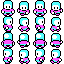
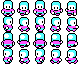
Ice blocks

diff --git a/src/player.c b/src/player.c
@@ -6,6 +6,7 @@
 
 
 static const i16 MOVE_TIME = 20;
+static const i16 INTERACTION_TIME = 20;
 
 
 Player create_player(i16 x, i16 y, Stage* s) {
@@ -18,6 +19,7 @@ Player create_player(i16 x, i16 y, Stage* s) {
 
     pl.moveTimer = 0;
     pl.moving = false;
+    pl.interacting = false;
     pl.dir = vec2(0, 0);
 
     pl.spr = create_sprite(4, 16);
@@ -37,8 +39,9 @@ static void pl_control(Player* pl, Stage* s, i16 step) {
     i16 dx = 0;
     i16 dy = 0;
     State k;
+    u8 actionType;
 
-    if (pl->moving) return;
+    if (pl->moving || pl->interacting) return;
 
     if ((k = keyb_get_ext_key(KEY_RIGHT)) & STATE_DOWN_OR_PRESSED) {
 
@@ -61,10 +64,15 @@ static void pl_control(Player* pl, Stage* s, i16 step) {
         dy = -1;
     }
 
-    if ((dx != 0 || dy != 0) &&
-        !stage_movement_collision(s, k,
-            pl->pos.x + dx, pl->pos.y + dy, 
-            dx, dy, MOVE_TIME)) {
+    actionType = 0;
+    if (dx != 0 || dy != 0) {
+
+        actionType = stage_movement_collision(s, k,
+                pl->pos.x + dx, pl->pos.y + dy, 
+                dx, dy, MOVE_TIME);
+    }
+
+    if (actionType == 1) {
 
         pl->target.x = pl->pos.x + dx;
         pl->target.y = pl->pos.y + dy;
@@ -74,6 +82,12 @@ static void pl_control(Player* pl, Stage* s, i16 step) {
 
         pl->moveTimer = MOVE_TIME;
         pl->moving = true;
+    }
+    else if (actionType == 2) {
+
+        pl->moveTimer = INTERACTION_TIME;
+        pl->interacting = true;
+        pl->moving = false;
     }
 }
 
@@ -102,6 +116,24 @@ static bool pl_check_camera(Player* pl, Stage* s) {
 }
 
 
+static bool pl_animate_interaction(Player* pl, i16 step) {
+
+    if (pl->interacting) {
+
+        if ((pl->moveTimer -= step) <= 0) {
+
+            pl->interacting = false;
+            spr_set_frame(&pl->spr, 0, pl->spr.row);
+        }
+        else {
+
+            spr_set_frame(&pl->spr, 4, pl->spr.row);
+        }
+    }
+    return pl->interacting;
+}
+
+
 static bool pl_move(Player* pl, Stage* s, i16 step) {
 
     i16 moveStep = MOVE_TIME / 4;
@@ -109,7 +141,7 @@ static bool pl_move(Player* pl, Stage* s, i16 step) {
     i16 oldTime;
     bool ret = false;
     
-    if (!pl->moving) return false;
+    if (!pl->moving || pl->interacting) return false;
 
     oldTime = pl->moveTimer;
     if ((pl->moveTimer -= step) <= 0) {
@@ -138,6 +170,12 @@ static void pl_animate(Player* pl, i16 step) {
 
     const i16 ANIM_SPEED = 8;
 
+    if (pl->interacting) {
+
+        pl_animate_interaction(pl, step);
+        return;
+    }
+
     if (pl->moving) {
 
         spr_animate(&pl->spr, pl->spr.row, 0, 3, ANIM_SPEED, step);
@@ -156,10 +194,9 @@ bool pl_update(Player* pl, Stage* s, i16 step) {
 
     pl_control(pl, s, step);
     pl_compute_render_pos(pl, s);
-
     pl_animate(pl, step);
     ret = pl_move(pl, s, step);
-
+    
     return ret;
 }
 

diff --git a/src/stage.c b/src/stage.c
@@ -12,7 +12,7 @@
 static bool is_solid(u8 v) {
 
     static const bool TABLE[] = {
-        0, 1, 1, 1, 0, 1, 1, 1, 1,
+        0, 1, 1, 1, 0, 1, 1, 1, 1, 1,
 
         // "Overflow" values, remove in the
         // release version
@@ -346,6 +346,8 @@ void stage_draw(Stage* s, Bitmap* bmpTileset) {
     i16 index;
     u8 tid;
 
+    // TODO: Look-up table? Most of the tiles
+    // are normal
     for (y = 0; y < s->roomHeight; ++ y) {
 
         for (x = 0; x < s->roomWidth; ++ x) {
@@ -394,6 +396,13 @@ void stage_draw(Stage* s, Bitmap* bmpTileset) {
 
                 sx = 20;
                 sy = 0;
+                break;
+
+            // Ice block
+            case 9:
+
+                sx = 20;
+                sy = 16;
                 break;
 
             default:
@@ -509,7 +518,14 @@ static void cut_flower(Stage* s, i16 x, i16 y) {
 }
 
 
-bool stage_movement_collision(Stage* s, 
+static void break_ice_block(Stage* s, i16 x, i16 y) {
+
+    set_tile(s, s->roomTilesStatic, x, y, 0);
+    set_tile(s, s->roomTilesDynamic, x, y, 2);
+}
+
+
+u8 stage_movement_collision(Stage* s, 
     State actionType, i16 x, i16 y, 
     i16 dx, i16 dy, i16 objectMoveTime) {
 
@@ -532,9 +548,9 @@ bool stage_movement_collision(Stage* s,
             s->rockAnim.startTime = objectMoveTime;
             s->rockAnim.timer = objectMoveTime;
 
-            return false;
+            return 1;
         }
-        return true;
+        return 0;
 
     // Bolt
     case 6:
@@ -542,8 +558,9 @@ bool stage_movement_collision(Stage* s,
         if (actionType == STATE_PRESSED) {
 
             swap_walls(s, x, y);
+            return 2;
         }
-        return true;
+        return 0;
 
     // Flower
     case 8:
@@ -551,14 +568,25 @@ bool stage_movement_collision(Stage* s,
         if (actionType == STATE_PRESSED) {
 
             cut_flower(s, x, y);
+            return 2;
         }
-        return true;
+        return 0;
+
+    // Ice block
+    case 9:
+
+        if (actionType == STATE_PRESSED) {
+
+            break_ice_block(s, x, y);
+            return 2;
+        }
+        return 0;
 
     default:
         break;
     }
 
-    return is_solid(id);
+    return (u8)!is_solid(id);
 }
 
 

diff --git a/src/stage.h b/src/stage.h
@@ -55,7 +55,7 @@ void stage_draw_objects(Stage* s, Bitmap* bmpObjects);
 
 void stage_mark_tile_for_redraw(Stage* s, i16 x, i16 y);
 
-bool stage_movement_collision(Stage* s, State actionType,
+u8 stage_movement_collision(Stage* s, State actionType,
     i16 x, i16 y, i16 dx, i16 dy, i16 objectMoveTime);
 bool stage_check_camera_transition(Stage* s, i16 x, i16 y);
 

diff --git a/src/player.h b/src/player.h
@@ -13,6 +13,7 @@ typedef struct {
     Vector2 dir;
     
     bool moving;
+    bool interacting; // Couldn't come up with a better word sorry
     i16 moveTimer;
 
     Sprite spr;
